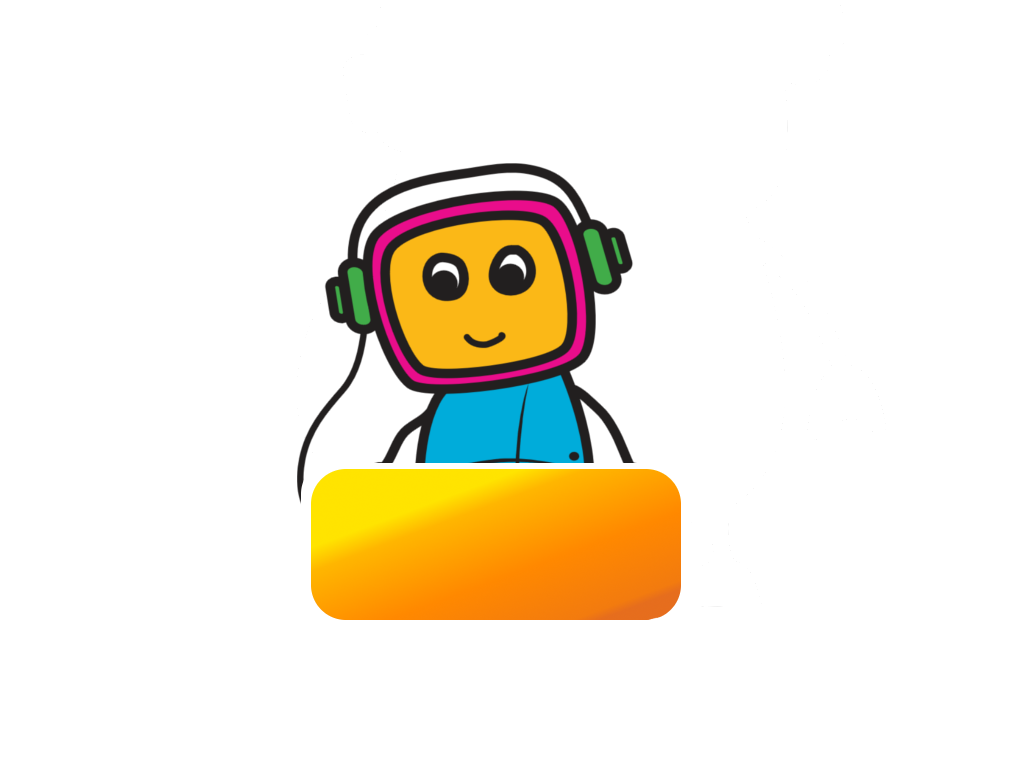
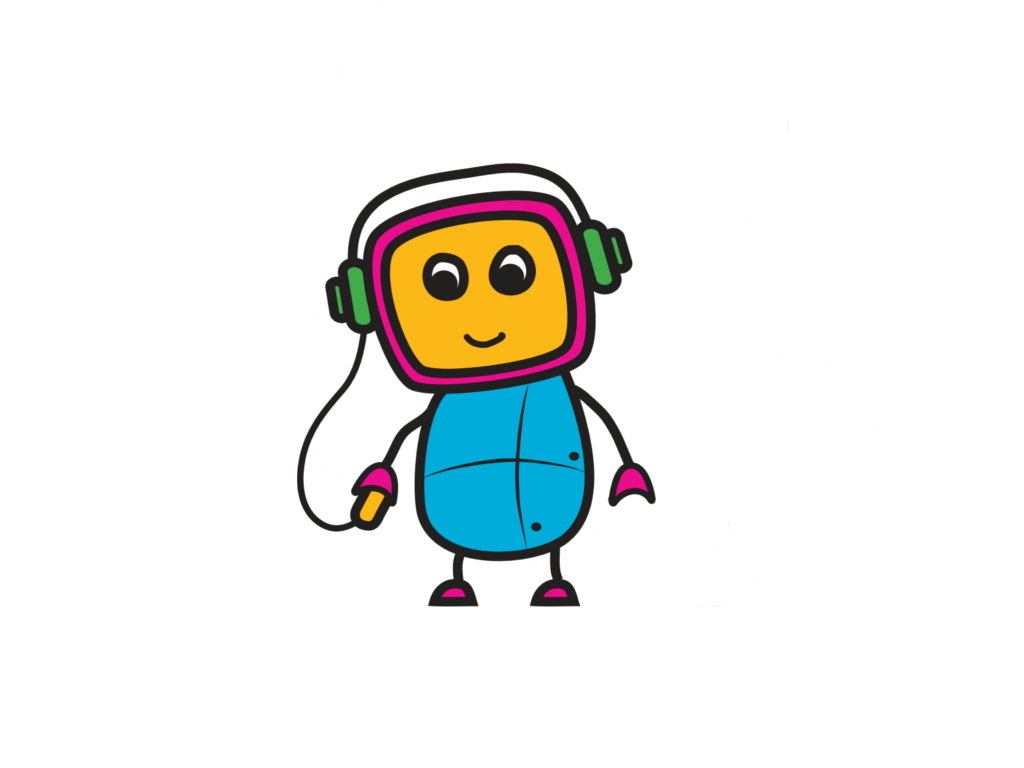
Fixade meny
Meny och level select

Changed region(s): [[0.2812, 0.5938, 0.6875, 0.8125]]

diff --git a/www/index.html b/www/index.html
@@ -4,38 +4,7 @@
     <meta charset="utf-8">
     <title>Robotkompis</title>
     <meta http-equiv="X-UA-Compatible" content="chrome=1, IE=9">
-    <!--
-    <meta name="format-detection" content="telephone=no">
-    <meta name="HandheldFriendly" content="true" />
-    <meta name="robots" content="noindex,nofollow" />
-    <meta name="apple-mobile-web-app-capable" content="yes" />
-    <meta name="apple-mobile-web-app-status-bar-style" content="black" />
-    <meta name="apple-mobile-web-app-title" content="Phaser App">
-    <meta name="viewport" content="initial-scale=1 maximum-scale=1 user-scalable=0 minimal-ui" />
-    <link rel="apple-touch-icon" href="/apple-touch-icon.png">
-    non-retina iPhone pre iOS 7
-    <link rel="apple-touch-icon" sizes="57x57" href="icons/app_icon_57x57.png">
-    <link rel="apple-touch-icon" sizes="60x60" href="icons/app_icon_60x60.png">
-     non-retina iPad pre iOS 7 
-    <link rel="apple-touch-icon" sizes="72x72" href="icons/app_icon_72x72.png">
-    non-retina iPad iOS 7 
-    <link rel="apple-touch-icon" sizes="76x76" href="icons/app_icon_76x76.png">
-    retina iPhone pre iOS 7
-    <link rel="apple-touch-icon" sizes="114x114" href="icons/app_icon_114x114.png">
-     retina iPhone iOS 7 
-    <link rel="apple-touch-icon" sizes="120x120" href="icons/app_icon_120x120.png">
-     retina iPad pre iOS 7 
-    <link rel="apple-touch-icon" sizes="144x144" href="icons/app_icon_144x144.png">
-     retina iPad iOS 7 
-    <link rel="apple-touch-icon" sizes="152x152" href="icons/app_icon_152x152.png">
-    <link rel="apple-touch-icon" sizes="256x256" href="icons/app_icon_256x256.png">
-    <link rel="apple-touch-icon" sizes="512x512" href="icons/app_icon_512x512.png">
-    <link rel="apple-touch-icon" sizes="1024x1024" href="icons/app_icon_1024x1024.png">
-    <link rel="stylesheet" href="css/stylesheet.css" type="text/css" charset="utf-8" /> -->
-
-    <!-- Bootstrap CSS 
-    <link rel="stylesheet" href="bower_components/bootstrap/dist/css/bootstrap.min.css">
-    -->
+    
     <!-- Load Phaser engine -->
     <script src="lib/phaser.js"></script>
     <!-- <script src="lib/phaser.min.js"></script> -->
@@ -49,6 +18,7 @@
     <script src="src/states/Boot.js"></script>
     <script src="src/states/Preloader.js"></script>
     <script src="src/states/StartMenu.js"></script>
+    <script src="src/states/MapOverview.js"></script>
 
 </head>
 <body>
@@ -64,6 +34,7 @@
             game.state.add('Boot', RobotKompis.Boot);
             game.state.add('Preloader', RobotKompis.Preloader);
             game.state.add('StartMenu', RobotKompis.StartMenu);
+            game.state.add('MapOverview', RobotKompis.MapOverview);
 
             //Start the boot state
             game.state.start('Boot');

diff --git a/www/src/states/Preloader.js b/www/src/states/Preloader.js
@@ -8,14 +8,31 @@ RobotKompis.Preloader = function (game) {
 RobotKompis.Preloader.prototype = {
 	preload: function () {
         'use strict';
+        //Saker som visas medan allt laddas
 		this.preloadBar = this.add.sprite(this.world.centerX, this.world.centerY, 'preloadBar');
 		this.preloadBar.anchor.setTo(0.5, 0.5);
 		this.load.setPreloadSprite(this.preloadBar);
 		this.titleText = this.add.image(this.world.centerX, this.world.centerY - 220, 'titleimage');
 		this.titleText.anchor.setTo(0.5, 0.5);
-        this.load.image('kalleButton', '/../../starta.png', 193, 71);
-        this.load.image('titleScreen', '../../images/startBG.png');
+        
+        
+        //Här under laddar man in alla assets som ska användas, som t.ex bakgrundsbilder osv
+        
+        //Här laddas fonter om det behövs
         this.load.bitmapFont('startFont', '../../fonts/startFont/font.png', '../../fonts/startFont/font.fnt');
+        
+        //Bilder för StartMenu
+        this.load.spritesheet('startKnapp', '../../images/StartKnapp_spritesheet.png', 392, 165, 2);
+        this.load.image('titleScreen', '../../images/startBG.png');
+        
+        //Bilder för MapOverview
+        this.load.spritesheet('levelOne', '../../images/select_levelOne.png', 140, 140, 2);
+        this.load.spritesheet('levelTwo', '../../images/select_levelTwo.png', 140, 140, 2);
+        this.load.spritesheet('levelThree', '../../images/select_levelThree.png', 140, 140, 2);
+        this.load.spritesheet('levelFour', '../../images/select_levelFour.png', 140, 140, 2);
+        this.load.spritesheet('levelFive', '../../images/select_levelFive.png', 140, 140, 2);
+        this.load.image('settingsIcon', '../../images/settingIcon.png');
+       
 	},
 	create: function () {
         'use strict';
@@ -27,3 +44,5 @@ RobotKompis.Preloader.prototype = {
         this.state.start('StartMenu');
 	}
 };
+
+//390X165

diff --git a/www/src/states/MapOverview.js b/www/src/states/MapOverview.js
@@ -1,0 +1,58 @@
+RobotKompis.MapOverview = function (game) {
+    'use strict';
+    this.LevelOne;
+    this.LevelTwo;
+    this.LevelThree;
+    this.LevelFour;
+    this.LevelFive;
+    this.settingIcon;
+
+};
+
+RobotKompis.MapOverview.prototype = {
+    
+    create: function () {
+        'use strict';
+        
+        //Knappar för att starta olika banor
+        this.LevelOne = this.add.button(200, 190, 'levelOne', this.startLevelOne, this, 0, 0, 1);
+        this.LevelTwo = this.add.button(450, 190, 'levelTwo', this.startLevelTwo, this, 0, 0, 1);
+        this.LevelThree = this.add.button(700, 190, 'levelThree', this.startLevelThree, this, 0, 0, 1);
+        this.LevelFour = this.add.button(325, 400, 'levelFour', this.startLevelFour, this, 0, 0, 1);
+        this.LevelFive = this.add.button(585, 400, 'levelFive', this.startLevelFive, this, 0, 0, 1);
+        
+        //Gör om till knapp för inställningar
+        this.settingsIcon = this.add.image(896, 0, 'settingsIcon');
+    },
+    
+    
+    //Funktioner kopplade till knapparna som ska föra spelet in i ett game-state
+    startLevelOne: function () {
+        'use strict';
+        alert('LEVEL 1 FINNS EJ ÄN');
+        //this.state.start('Bana1'); <-- Byter till det state med referens "Bana1"
+    },
+    
+    startLevelTwo: function () {
+        'use strict';
+        alert('LEVEL 2 FINNS EJ ÄN');
+    },
+    
+    startLevelThree: function () {
+        'use strict';
+        alert('LEVEL 3 FINNS EJ ÄN');
+    },
+    
+    startLevelFour: function () {
+        'use strict';
+        alert('LEVEL 4 FINNS EJ ÄN');
+    },
+    
+    startLevelFive: function () {
+        'use strict';
+        alert('LEVEL 5 FINNS EJ ÄN');
+        
+    }
+    
+    
+};

diff --git a/www/src/states/StartMenu.js b/www/src/states/StartMenu.js
@@ -2,7 +2,7 @@ RobotKompis.StartMenu = function (game) {
     'use strict';
     this.startBG;
     this.startPrompt;
-    this.kalle;
+    this.StartKnapp;
 };
 
 RobotKompis.StartMenu.prototype = {
@@ -10,16 +10,13 @@ RobotKompis.StartMenu.prototype = {
     create: function () {
         'use strict';
         this.startBG = this.add.image(0, 0, 'titleScreen');
-        this.startBG.inputEnabled = true;
-        this.kalle = this.add.image(300,440,'kalleButton')
         
-        this.startBG.events.onInputDown.addOnce(this.startGame, this);
+        this.StartKnapp = this.add.button(this.world.centerX - 190, this.world.centerY + 70, 'startKnapp', this.startGame, this, 0, 0, 1);
         
-        this.startPrompt = this.add.bitmapText(this.world.centerX - 190, this.world.centerY + 130, 'startFont','', 50);
     },
     
     startGame: function (pointer) {
         'use strict';
-        this.state.start('Game');
+        this.state.start('MapOverview');
     }
 };
